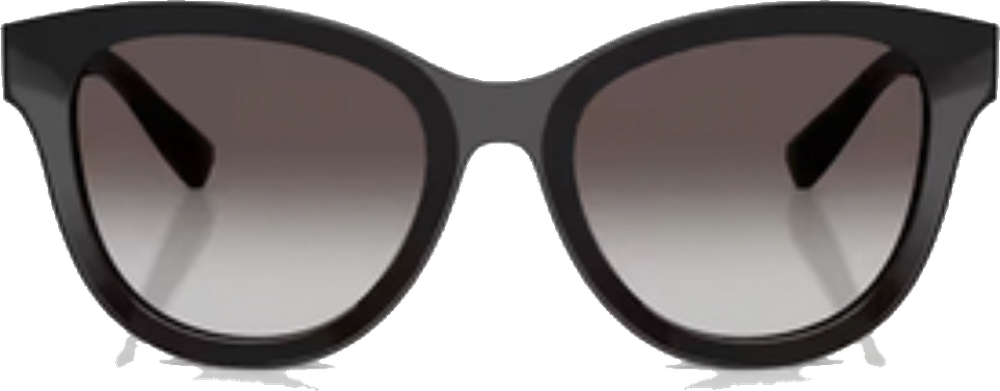
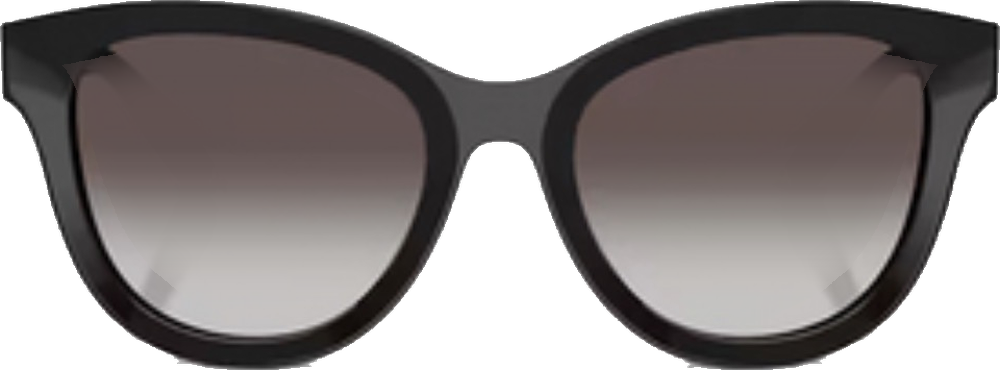
Togli le aste che si intravedevano dietro le lenti
Nelle foto di catalogo la montatura è aperta e le aste, dietro le lenti, si
intravedono come striature scure. Con la lente piena erano nascoste; da quando
la lente tinge invece di coprire finivano davanti agli occhi, dove non hanno
alcun senso.

La lente viene ora ricostruita prima di essere usata: è un gradiente
sostanzialmente verticale, quindi riga per riga il colore è quasi costante e la
mediana lo descrive bene anche con le aste presenti, che occupano una minoranza
dei pixel. Assegnando a ogni riga la propria mediana le striature spariscono e
il gradiente resta.

La ricostruzione è nel codice, non solo nei file: le foto caricate dal negozio
vengono ripulite allo stesso modo, senza ritocchi manuali. Verificato caricando
di proposito la versione non ritoccata, con le aste: viene resa identica a
quella pulita a mano.

Rifatte anche le sovrapposizioni già pubblicate. Per il Dolce & Gabbana lo
scontorno riparte dall'originale con una tolleranza più alta sul fondo (75
invece di 45), che elimina i residui dell'ombra: erano le macchioline chiare
visibili sulle guance durante la prova. Un'apertura morfologica sulla sagoma
non bastava a toglierli, meglio agire sul fondo in partenza.

ADMIN.md chiarisce ora cosa il sito sistema da solo — aste e trasparenza delle
lenti — e cosa invece dipende dalla foto: uno scontorno senza aloni.

Claude-Session: https://claude.ai/code/session_01Eg9JCoP6RtUtNHKf37bVw4

diff --git a/components/home/tryon/TryOnModal.tsx b/components/home/tryon/TryOnModal.tsx
@@ -117,6 +117,45 @@ export interface FramePieces {
 }
 
 /**
+ * Ricostruisce la lente come gradiente pulito, togliendo le aste.
+ *
+ * Nelle foto di catalogo la montatura è aperta e le aste, dietro le lenti, si
+ * intravedono come striature scure: sovrapposte a un viso finirebbero davanti
+ * agli occhi, dove non hanno senso. La lente però è un gradiente
+ * sostanzialmente verticale, quindi riga per riga il colore è quasi costante e
+ * la mediana lo descrive bene anche con le aste presenti, che occupano una
+ * minoranza dei pixel. Assegnando a ogni riga la propria mediana si ottiene la
+ * lente senza le striature.
+ */
+function rebuildLens(
+  pixels: Uint8ClampedArray,
+  inside: Uint8Array,
+  w: number,
+  h: number
+): Uint8ClampedArray {
+  const result = new Uint8ClampedArray(pixels)
+  const columns: number[] = []
+  const channel: number[] = []
+
+  for (let y = 0; y < h; y++) {
+    columns.length = 0
+    for (let x = 0; x < w; x++) if (inside[y * w + x]) columns.push(x)
+    if (columns.length < 10) continue
+
+    const middle = columns.length >> 1
+    for (let c = 0; c < 3; c++) {
+      channel.length = 0
+      for (const x of columns) channel.push(pixels[(y * w + x) * 4 + c])
+      channel.sort((a, b) => a - b)
+      const median = channel[middle]
+      for (const x of columns) result[(y * w + x) * 4 + c] = median
+    }
+  }
+
+  return result
+}
+
+/**
  * Separa la montatura in due strati: lenti e profilo.
  *
  * Le lenti vengono poi fuse in "multiply", che scurisce l'immagine sotto
@@ -157,6 +196,7 @@ function prepareFrame(image: HTMLImageElement): FramePieces | null {
 
   const radius = Math.max(4, Math.round(w * 0.028))
   const inside = erode(shape, w, h, radius)
+  const lensColour = rebuildLens(pixels, inside, w, h)
   // Il confine fra i due strati va sfumato, altrimenti si vede lo scalino.
   const weight = boxBlur(
     Uint8Array.from(inside, (v) => (v ? 255 : 0)),
@@ -173,9 +213,10 @@ function prepareFrame(image: HTMLImageElement): FramePieces | null {
     const alpha = pixels[o + 3]
     const share = weight[i] / 255
 
-    // Strato lente: tinta schiarita, tanto più presente quanto si è "dentro"
+    // Strato lente: tinta ricostruita e schiarita, tanto più presente
+    // quanto si è "dentro"
     for (let c = 0; c < 3; c++) {
-      lensData.data[o + c] = 255 - (255 - pixels[o + c]) * LENS_STRENGTH
+      lensData.data[o + c] = 255 - (255 - lensColour[o + c]) * LENS_STRENGTH
     }
     lensData.data[o + 3] = alpha * share
 

diff --git a/ADMIN.md b/ADMIN.md
@@ -97,6 +97,16 @@ Nell'anteprima dell'admin questo slot ha lo sfondo a scacchi: se vedi il
 bianco invece degli scacchi, la foto **non** è trasparente e sul viso apparirà
 un rettangolo bianco.
 
+**Di due cose non devi preoccuparti**, perché le sistema il sito da solo:
+
+- *le aste che si intravedono dietro le lenti* nelle foto a montatura aperta
+  vengono tolte, ricostruendo il gradiente della lente;
+- *le lenti* vengono rese semitrasparenti, così chi prova gli occhiali si vede
+  gli occhi attraverso la lente.
+
+Conta invece che lo **scontorno sia pulito**: se attorno alla montatura resta
+un alone dell'ombra, quello finisce sul viso come una macchia chiara.
+
 ### Come funziona per il cliente
 
 Apre il pulsante *Provali*, legge l'avviso, autorizza la fotocamera e si vede
